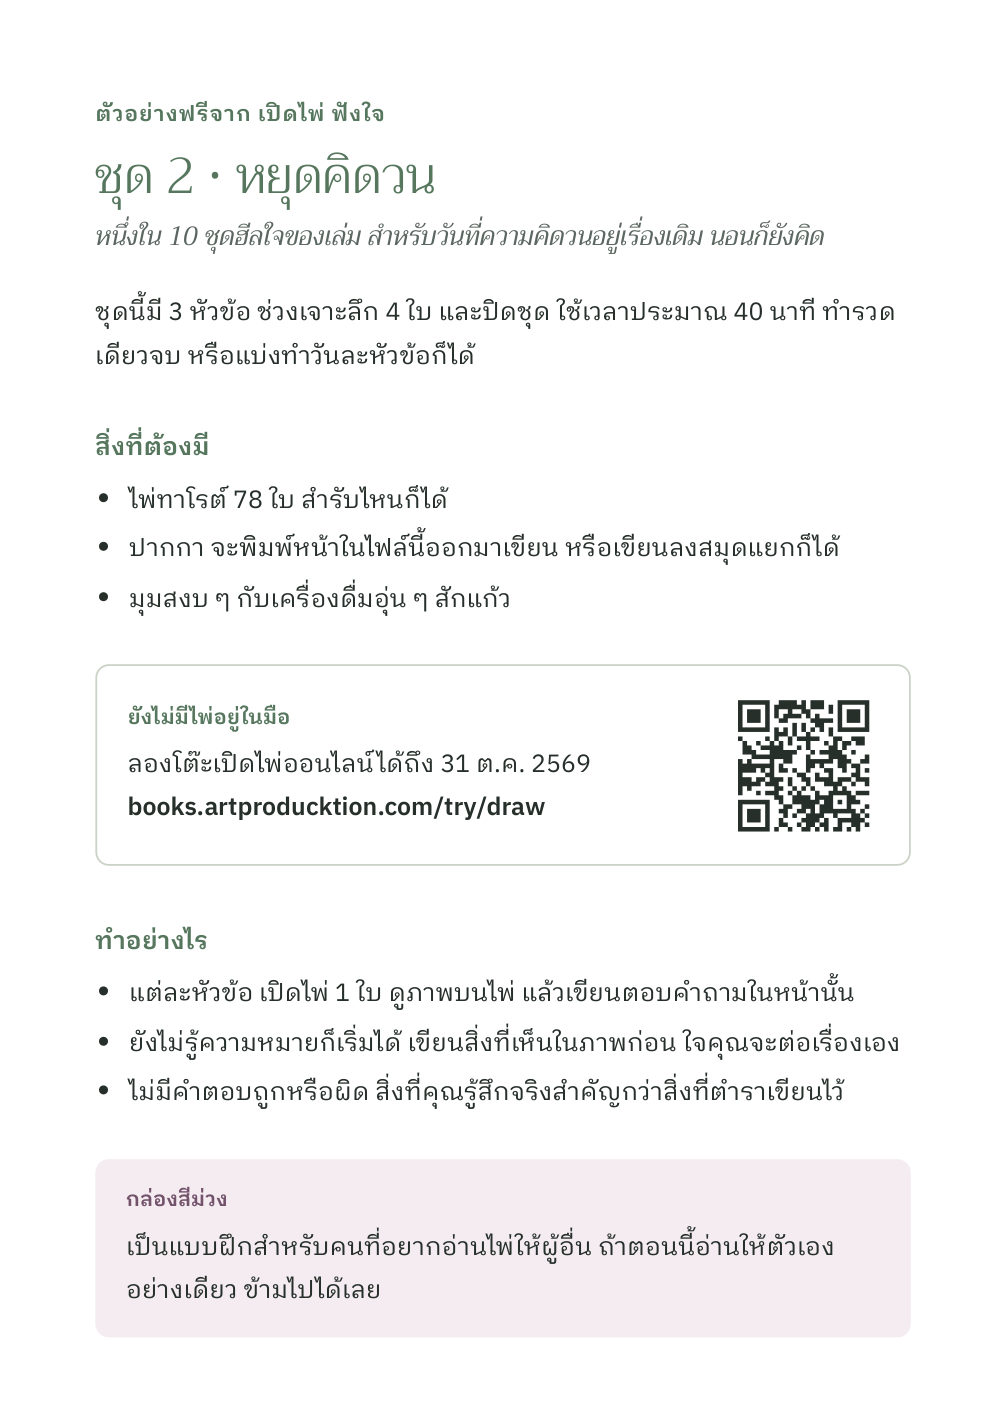
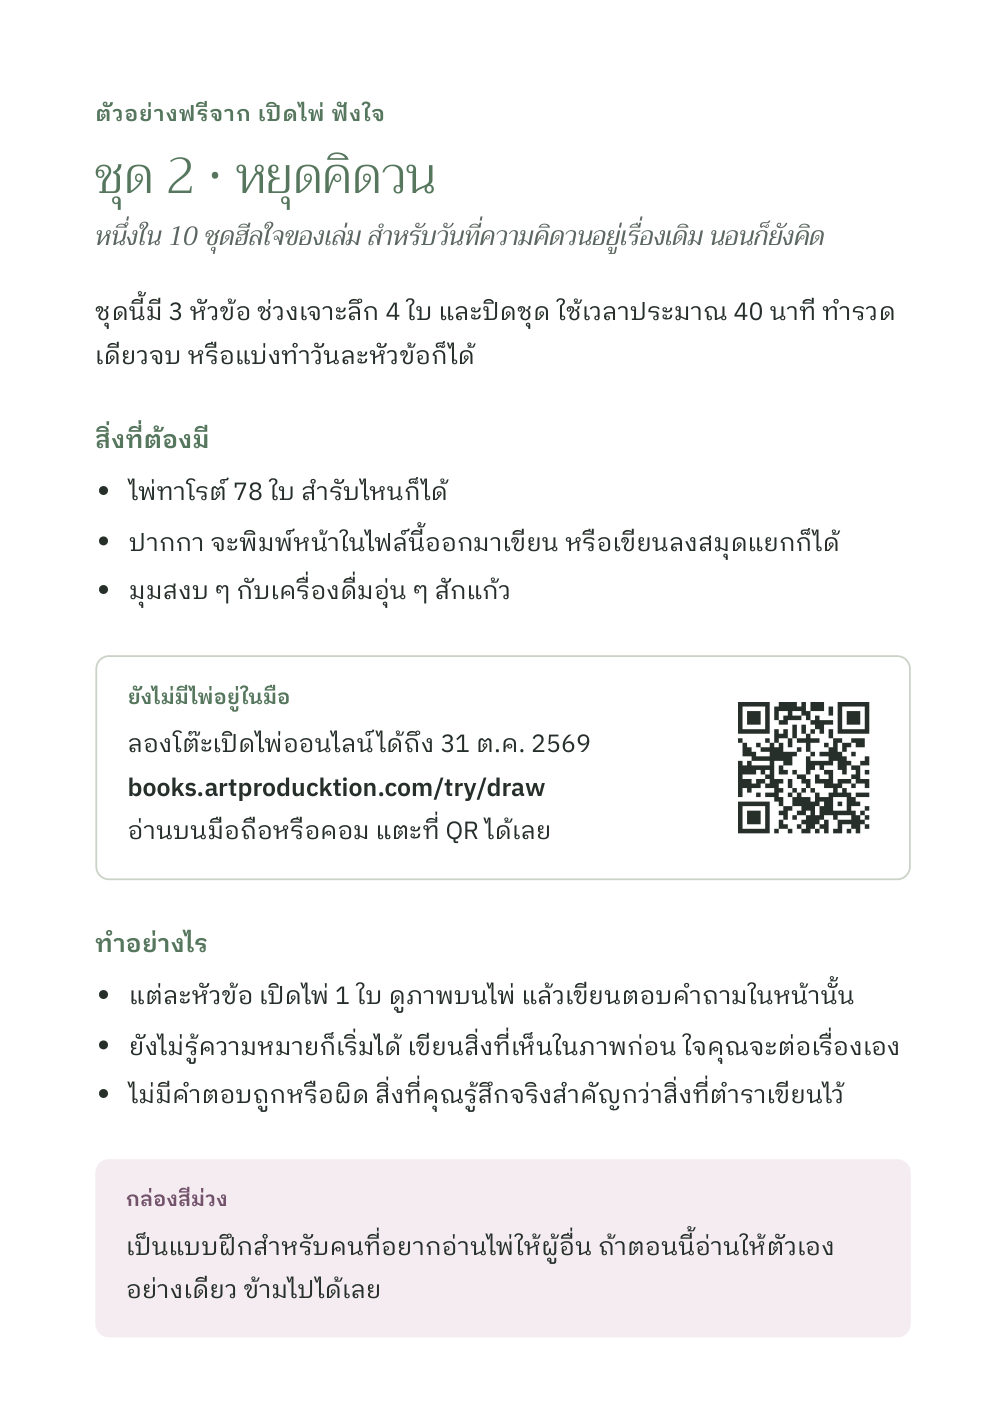
หน้าทดลองอ่าน: ตัวอย่างหน้า 2 บอกว่าแตะ QR ได้ + ลิงก์ทับ QR ในภาพ (Dan 1A)

diff --git a/try/index.html b/try/index.html
@@ -47,6 +47,9 @@
   .until { justify-self: start; font-size: 13px; font-weight: 600; color: var(--plum); background: var(--plum-tint); border-radius: 99px; padding: 2px 12px; }
   .pages { display: grid; gap: 16px; }
   .pages img { width: 100%; height: auto; display: block; border-radius: 4px; box-shadow: var(--shadow); background: #fff; }
+  /* หน้า 2: ลิงก์ทับ QR ในภาพ (ภาพเขียนว่า "แตะที่ QR ได้เลย") · ตำแหน่งจากลิงก์ใน PDF ตัวอย่าง (303.8, 288.8)–(366, 351) บนหน้า 420×595 pt */
+  .pages .pg { position: relative; }
+  .pages .qrhit { position: absolute; left: 71.5%; top: 48%; width: 16.3%; height: 11.5%; border-radius: 4px; }
   .pages .go { display: flex; flex-wrap: wrap; gap: 10px; justify-content: center; }
   .btn { display: inline-block; text-decoration: none; font: inherit; font-size: 15px; font-weight: 600; border-radius: 99px; padding: 10px 20px; border: 1px solid var(--sage); color: var(--sage); background: transparent; cursor: pointer; }
   .btn.solid { background: var(--sage); color: var(--on-sage); }
@@ -130,7 +133,12 @@
       img.src = "pages/p" + (i + 1) + ".jpg";
       img.alt = alt; img.width = 1008; img.height = 1428;
       img.loading = i < 2 ? "eager" : "lazy";
-      box.appendChild(img);
+      if (i === 1) {
+        var pg = document.createElement("div"); pg.className = "pg"; pg.appendChild(img);
+        var hit = document.createElement("a"); hit.className = "qrhit"; hit.href = "/try/draw/";
+        hit.target = "_blank"; hit.rel = "noopener"; hit.setAttribute("aria-label", "เปิดโต๊ะเปิดไพ่ออนไลน์");
+        pg.appendChild(hit); box.appendChild(pg);
+      } else box.appendChild(img);
       if (i === 1) box.appendChild(go([["เปิดโต๊ะเปิดไพ่ออนไลน์", "/try/draw/", false]]));
       if (i === 8) box.appendChild(go([["ดูหน้าหนังสือ", "/?src=sample", true]]));
     });
